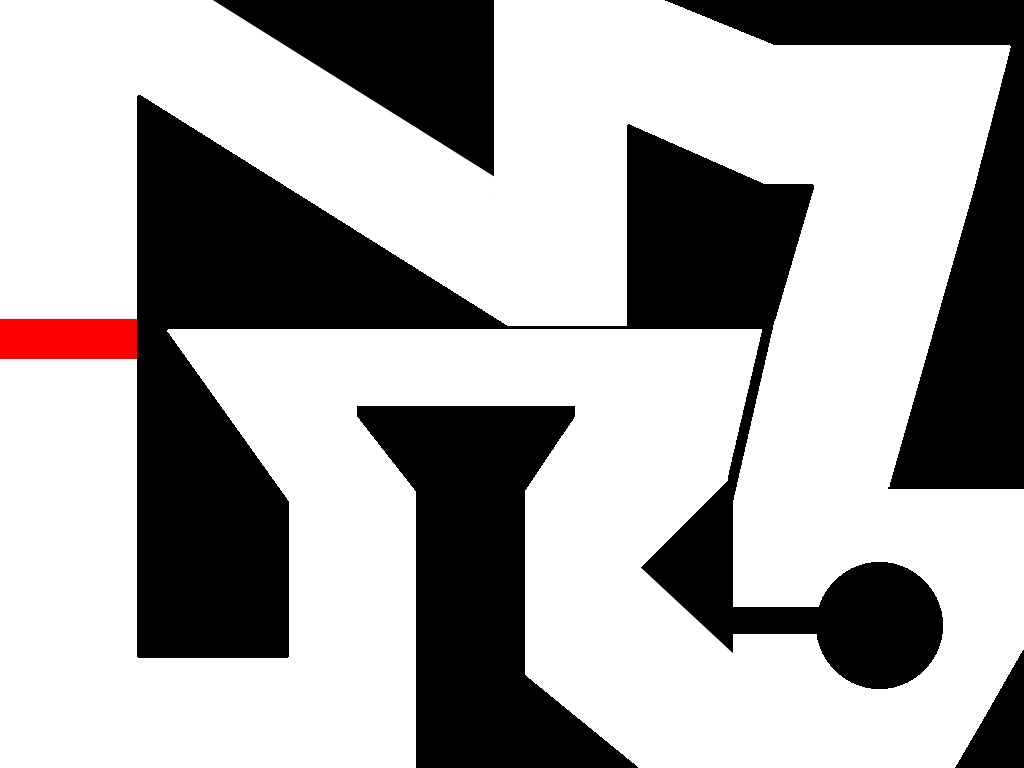
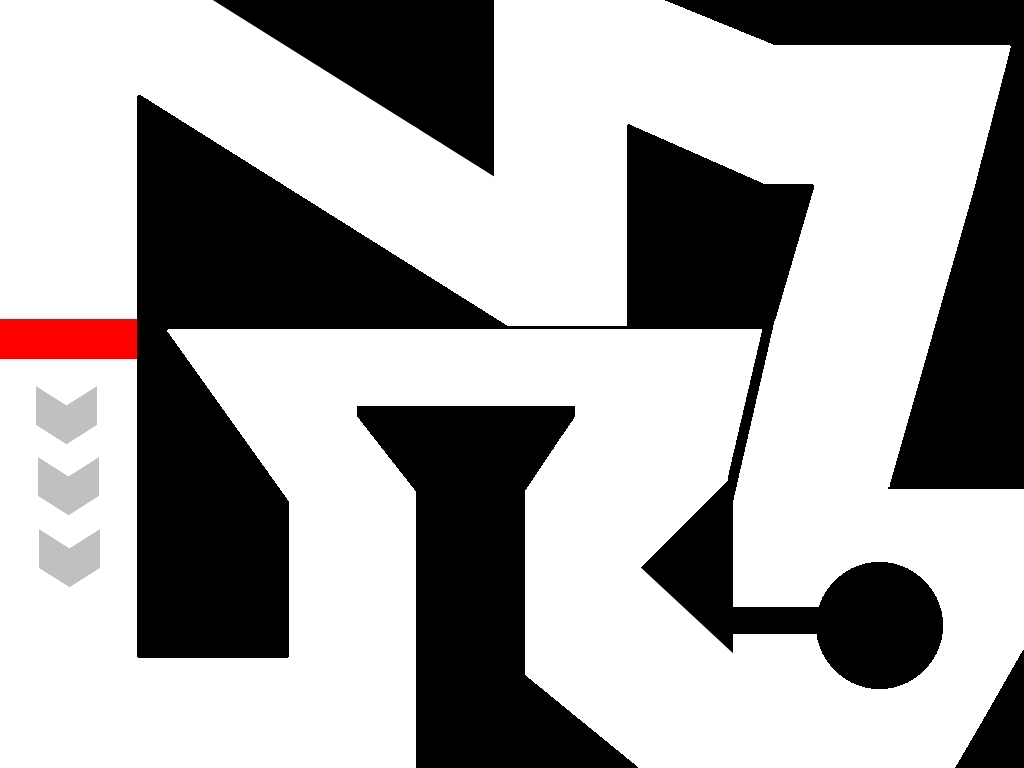
arrows in routes and fixed labyrinth styling

Changed region(s): [[0.0312, 0.5, 0.125, 0.7812]]

diff --git a/public/stylesheets/controller.css b/public/stylesheets/controller.css
@@ -712,3 +712,7 @@ img.bg {
 .modal-content {
   background-color: #333 !important;
 }
+
+#game > #collapse > .panel-body > p {
+  color: #31708F;
+}
